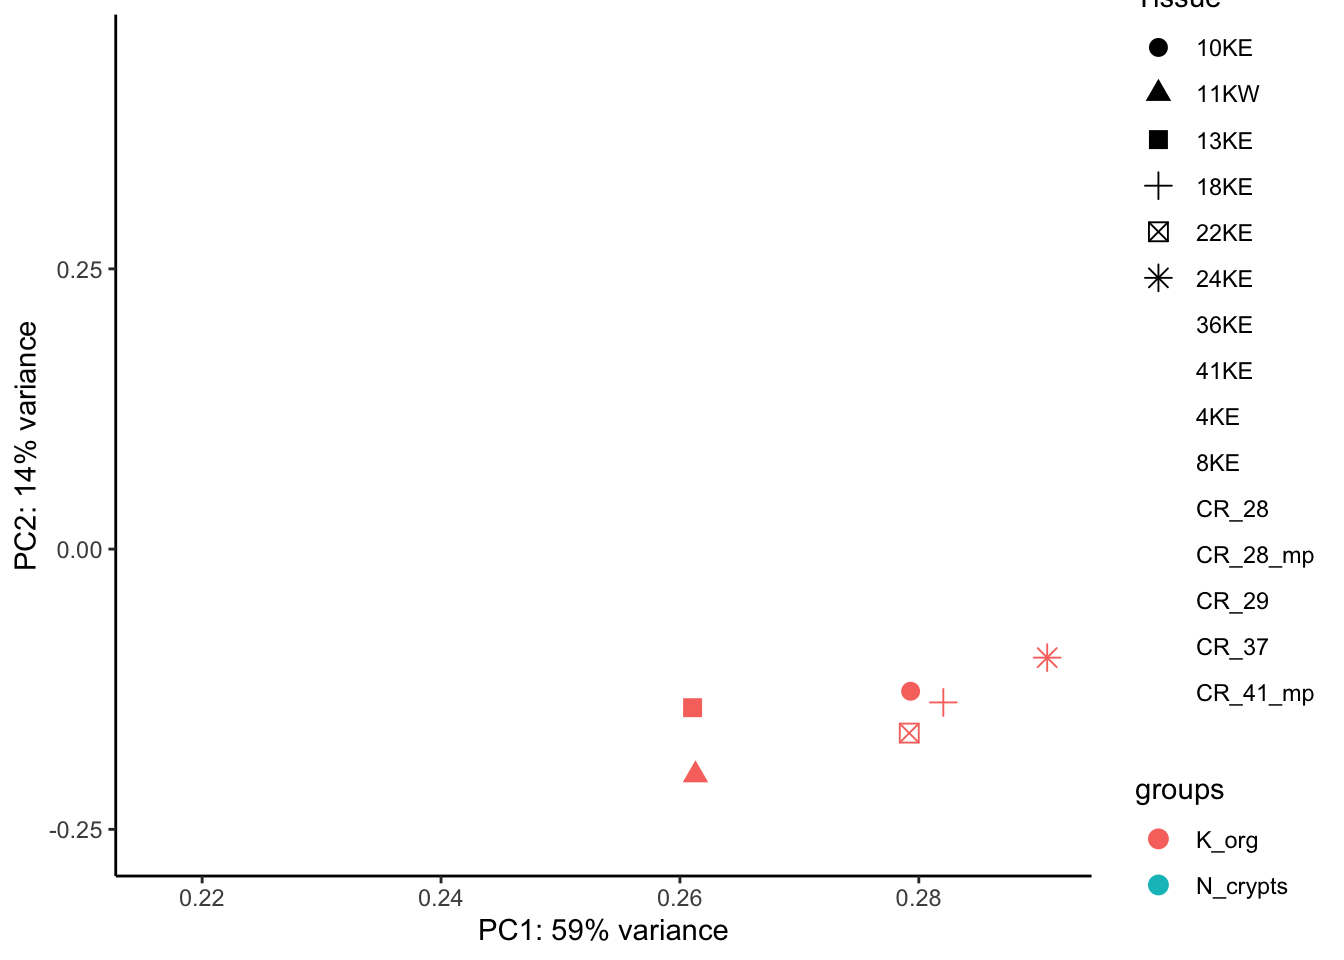
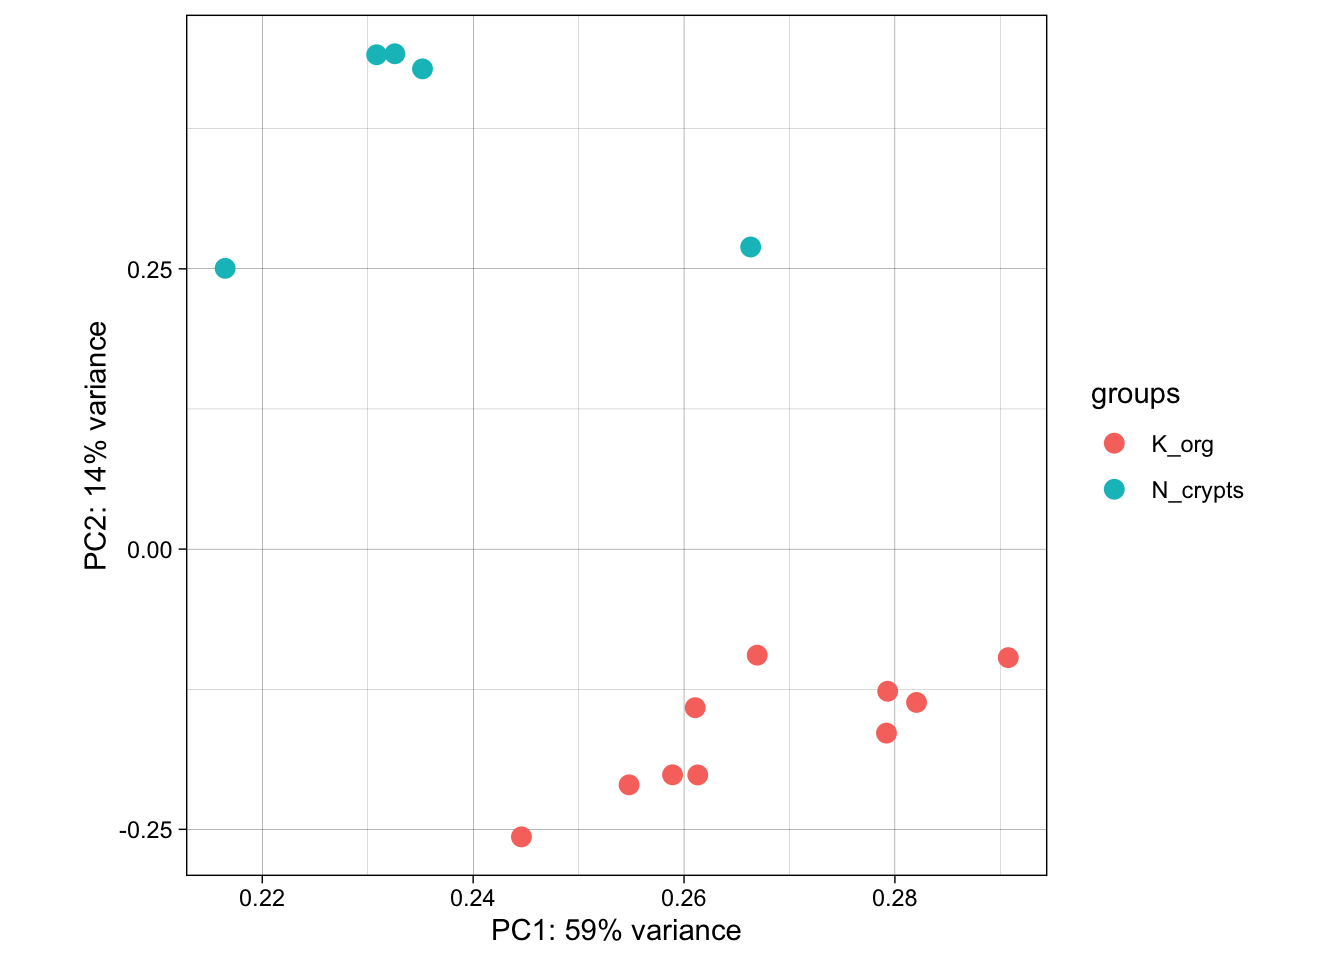
modify PCA chunk

diff --git a/docs/pages/Day2.html b/docs/pages/Day2.html
@@ -1079,8 +1079,8 @@ pre > code.sourceCode > span > a:first-child::before { text-decoration: underlin
 <span id="cb18-3"><a href="#cb18-3" aria-hidden="true" tabindex="-1"></a><span class="fu">gc</span>()</span></code><button title="Copy to Clipboard" class="code-copy-button"><i class="bi"></i></button></pre></div>
 <div class="cell-output cell-output-stdout">
 <pre><code>          used (Mb) gc trigger  (Mb) limit (Mb) max used  (Mb)
-Ncells 1754271 93.7    3398975 181.6         NA  2386170 127.5
-Vcells 3453495 26.4    8388608  64.0      16384  5777967  44.1</code></pre>
+Ncells 1754272 93.7    3398981 181.6         NA  2386164 127.5
+Vcells 3453504 26.4    8388608  64.0      16384  5777972  44.1</code></pre>
 </div>
 </div>
 <blockquote class="blockquote">
@@ -1099,11 +1099,12 @@ Vcells 3453495 26.4    8388608  64.0      16384  5777967  44.1</code></pre>
 <span id="cb20-6"><a href="#cb20-6" aria-hidden="true" tabindex="-1"></a>pcaData <span class="ot">&lt;-</span> <span class="fu">as.data.frame</span>(pcs<span class="sc">$</span>rotation) <span class="sc">%&gt;%</span> <span class="fu">merge</span>(samples, <span class="at">by=</span><span class="dv">0</span>)</span>
 <span id="cb20-7"><a href="#cb20-7" aria-hidden="true" tabindex="-1"></a></span>
 <span id="cb20-8"><a href="#cb20-8" aria-hidden="true" tabindex="-1"></a><span class="co"># Plot (this time with ggplot2!!)</span></span>
-<span id="cb20-9"><a href="#cb20-9" aria-hidden="true" tabindex="-1"></a><span class="fu">ggplot</span>(pcaData, <span class="fu">aes</span>(PC1, PC2, <span class="at">color=</span>groups, <span class="at">shape=</span>Tissue)) <span class="sc">+</span></span>
+<span id="cb20-9"><a href="#cb20-9" aria-hidden="true" tabindex="-1"></a><span class="fu">ggplot</span>(pcaData, <span class="fu">aes</span>(PC1, PC2, <span class="at">color=</span>groups)) <span class="sc">+</span></span>
 <span id="cb20-10"><a href="#cb20-10" aria-hidden="true" tabindex="-1"></a>  <span class="fu">geom_point</span>(<span class="at">size=</span><span class="dv">3</span>) <span class="sc">+</span></span>
 <span id="cb20-11"><a href="#cb20-11" aria-hidden="true" tabindex="-1"></a>  <span class="fu">xlab</span>(<span class="fu">paste0</span>(<span class="st">"PC1: "</span>,percentVar[<span class="dv">1</span>],<span class="st">"% variance"</span>)) <span class="sc">+</span></span>
 <span id="cb20-12"><a href="#cb20-12" aria-hidden="true" tabindex="-1"></a>  <span class="fu">ylab</span>(<span class="fu">paste0</span>(<span class="st">"PC2: "</span>,percentVar[<span class="dv">2</span>],<span class="st">"% variance"</span>)) <span class="sc">+</span> </span>
-<span id="cb20-13"><a href="#cb20-13" aria-hidden="true" tabindex="-1"></a>  <span class="fu">theme_classic</span>()</span></code><button title="Copy to Clipboard" class="code-copy-button"><i class="bi"></i></button></pre></div>
+<span id="cb20-13"><a href="#cb20-13" aria-hidden="true" tabindex="-1"></a>  <span class="fu">theme_linedraw</span>()<span class="sc">+</span></span>
+<span id="cb20-14"><a href="#cb20-14" aria-hidden="true" tabindex="-1"></a>  <span class="fu">theme</span>(<span class="at">aspect.ratio=</span><span class="dv">1</span>)</span></code><button title="Copy to Clipboard" class="code-copy-button"><i class="bi"></i></button></pre></div>
 <div class="cell-output-display">
 <div class="quarto-figure quarto-figure-center">
 <figure class="figure">
